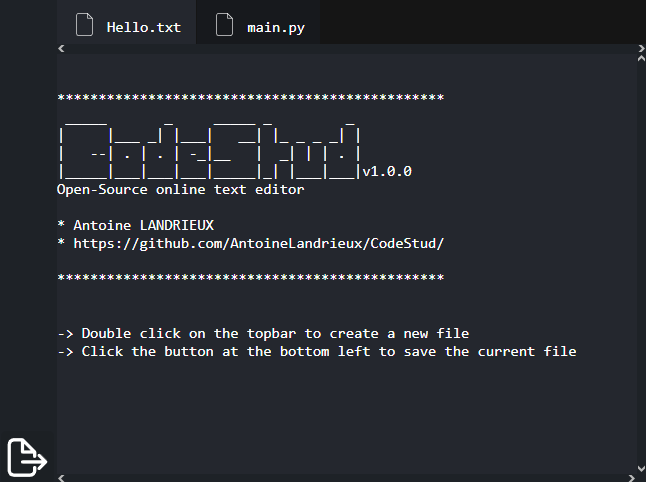
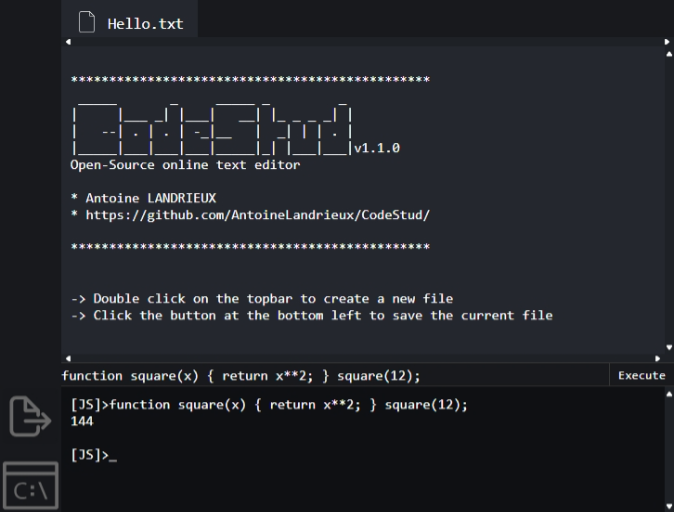
v1.1.0

diff --git a/javascript/script.js b/javascript/script.js
@@ -13,7 +13,7 @@ Open-Source online text editor
 ***********************************************
 */
 
-const CODESTUD_VERSION = {MAJOR: 1, MINOR: 0, PATCH: 0};
+const CODESTUD_VERSION = { MAJOR: 1, MINOR: 1, PATCH: 0 };
 
 let files = [];
 let current_file = "";
@@ -46,15 +46,15 @@ function file_save(filename) {
 function file_saveas(filename) {
 
     files.forEach((item) => {
-        
+
         if (item.name.toLowerCase() == filename.toLowerCase()) {
-            var textBlob = new Blob([item.content], {type: "text/plain"});
+            var textBlob = new Blob([item.content], { type: "text/plain" });
             var download = document.createElement("a");
-            
+
             download.download = filename;
             download.href = window.URL.createObjectURL(textBlob);
             download.click();
-            
+
             delete textBlob;
             delete download;
         }
@@ -120,19 +120,39 @@ document.getElementById("files").addEventListener("dblclick", function () {
     file_create(prompt("New file"), "");
 });
 
+code.addEventListener("keydown", (event) => {
+    if (event.key != "Tab")
+        return;
+    event.preventDefault();
+    code.setRangeText('\t', code.selectionStart, code.selectionStart, "end");
+    return false;
+})
+
 code.addEventListener("keyup", () => {
     file_save(current_file);
 });
 
-document.getElementById("saveas").addEventListener('click', function() {
+document.getElementById("saveas").addEventListener('click', function () {
     file_saveas(current_file);
+});
+
+document.getElementById("cmd").addEventListener('click', function () {
+    document.getElementById("console").classList.toggle("hide");
+});
+
+document.getElementById("run").addEventListener('click', function () {
+    document.getElementById("out").innerText += document.getElementById("input").value + "\n";
+    try {
+        document.getElementById("out").innerText += eval(document.getElementById("input").value) + "\n\n[JS]>";
+    } catch (except) {
+        document.getElementById("out").innerText += except + "\n\n[JS]>";
+    }
 });
 
 window.onbeforeunload = () => { return "You have attempted to leave this page. Are you sure?"; };
 
 window.addEventListener('load', function () {
     file_create("Hello.txt", `
-
 ***********************************************
  _____       _     _____ _         _ 
 |     |___ _| |___|   __| |_ _ _ _| |
@@ -148,7 +168,7 @@ Open-Source online text editor
 
 -> Double click on the topbar to create a new file
 -> Click the button at the bottom left to save the current file
-`
-    );
+`);
     file_load("Hello.txt");
+    document.getElementById("out").innerHTML = `[JS]>`;
 });

diff --git a/css/style.css b/css/style.css
@@ -1,5 +1,6 @@
-
-*, *::before, *::after {
+*,
+*::before,
+*::after {
     inset: 0;
     margin: 0;
     padding: 0;
@@ -21,7 +22,7 @@ nav#sidebar {
     height: 100vh;
     max-width: 100px;
     min-width: 50px;
-    background-color: #1E2227;
+    background-color: #17191d;
     outline: 1px solid #00000050;
     display: flex;
     flex-direction: column;
@@ -56,7 +57,7 @@ div#files {
     flex: 1.25;
     max-height: 75px;
     min-height: 50px;
-    background-color: #151515;
+    background-color: #17191d;
     display: flex;
     flex-direction: row;
     overflow-x: scroll;
@@ -95,10 +96,80 @@ button.file::before {
 div#container #code {
     flex: 10;
     resize: none;
+    padding: 10px;
+    tab-size: 2;
     overflow: scroll;
     scrollbar-color: #fff #1E2227;
     scrollbar-width: thin;
     background-color: #24272E;
     display: block;
     font-size: min(max(2vmin, 15px), 30px);
+}
+
+div#container #console {
+    width: 100%;
+    flex: 5;
+    display: flex;
+    flex-direction: column;
+    align-items: center;
+}
+
+#console #in {
+    flex: 1;
+    width: 100%;
+    display: flex;
+    flex-direction: row;
+    align-items: center;
+    justify-content: center;
+}
+
+#console #in input {
+    height: 100%;
+    flex: 10;
+    font-size: min(max(2vmin, 15px), 30px);
+    outline: 1px solid #353535;
+    background-color: #17191d;
+}
+
+#console #in button {
+    height: 100%;
+    flex: 1;
+    padding: 5px;
+    outline: 1px solid #353535;
+    background-color: #17191d;
+}
+
+#console #out {
+    flex: 10;
+    width: 100%;
+    padding: 10px;
+    user-select: none;
+    outline: 1px solid #302e2e;
+    font-size: min(max(2vmin, 15px), 30px);
+    background-color: #17191d;
+    overflow-y: scroll;
+    scrollbar-color: #fff #1E2227;
+    scrollbar-width: thin;
+    text-wrap: wrap;
+    background-color: #0f1013;
+}
+
+#console #out::after {
+    content: "_";
+    font-weight: 1000;
+    animation: write .6s infinite alternate;
+}
+
+.hide {
+    display: none !important;
+}
+
+@keyframes write {
+    from {
+        opacity: 1;
+    }
+
+    to {
+        opacity: 0;
+    }
 }

diff --git a/index.html b/index.html
@@ -14,6 +14,7 @@
     <nav id="sidebar">
         <ul>
             <img class="btn" id="saveas" src="resources/img/save.svg"></li>
+            <img class="btn" id="cmd" src="resources/img/cmd.svg"></li>
         </ul>
     </nav>
 
@@ -24,7 +25,16 @@
         </div>
 
         <!-- Text editor -->
-        <textarea name="code" id="code" spellcheck="false" autocomplete="off" wrap="off"></textarea>
+        <textarea name="code" id="code" class="oft_tab_enable" spellcheck="false" autocomplete="off" wrap="off"></textarea>
+
+        <!-- Console -->
+        <div id="console" class="hide">
+            <div id="in">
+                <input type="text" name="input" id="input" spellcheck="false" autocomplete="off" placeholder="> command" maxlength="100">
+                <button id="run">Execute</button>
+            </div>
+            <pre id="out"></pre>
+        </div>
     </div>
 
     <script src="javascript/script.js"></script>

diff --git a/CHANGELOG.md b/CHANGELOG.md
@@ -1,0 +1,9 @@
+
+# CodeStud changelog
+
+---
+
+v1.1.0
+
+- Add JS console
+- Fix couldn't do tab
